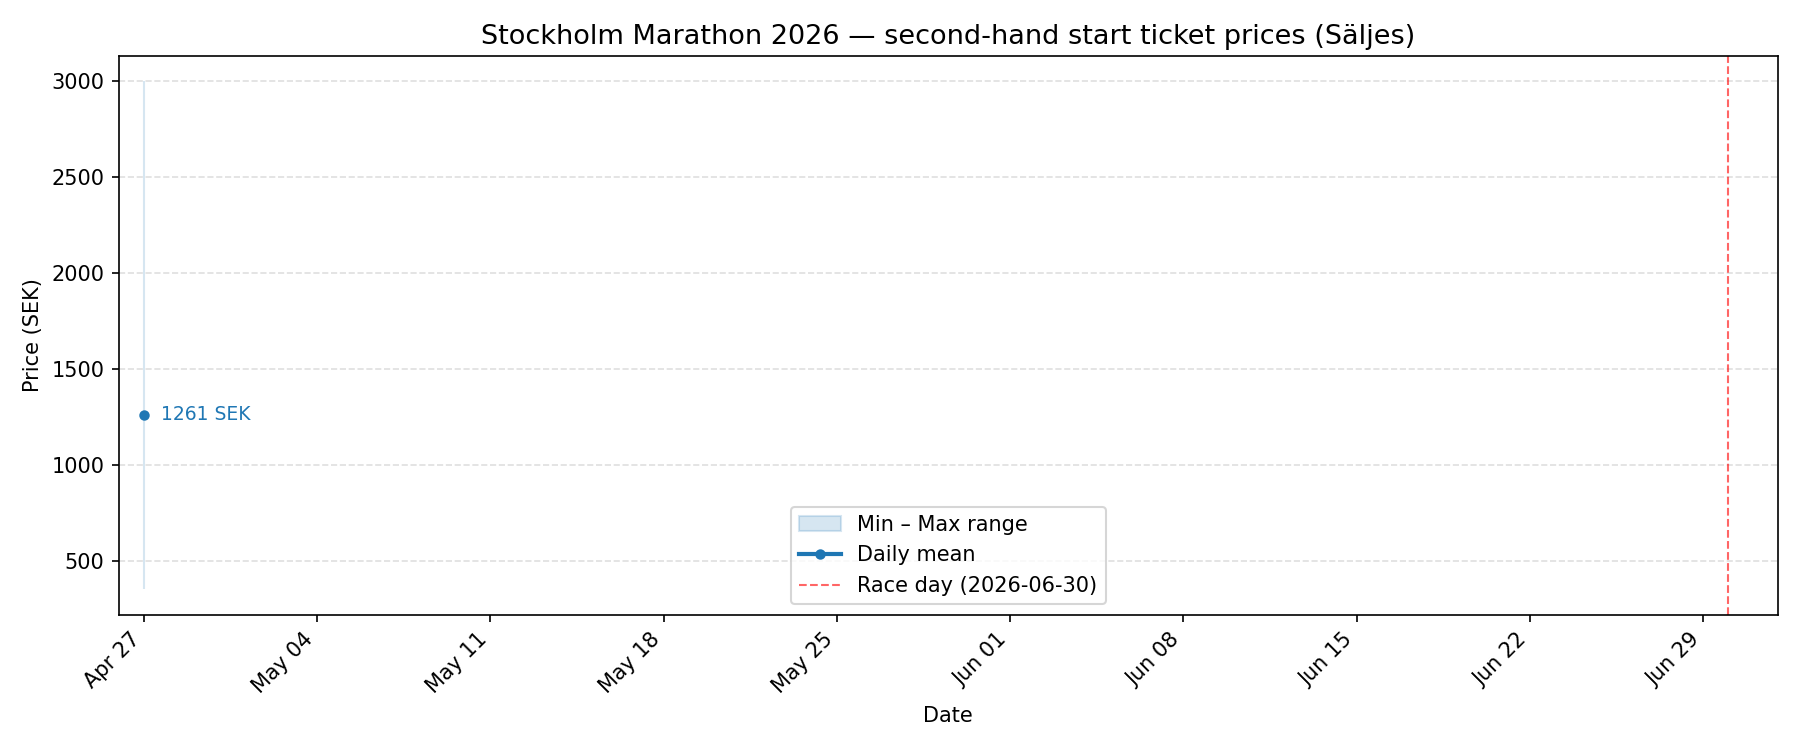
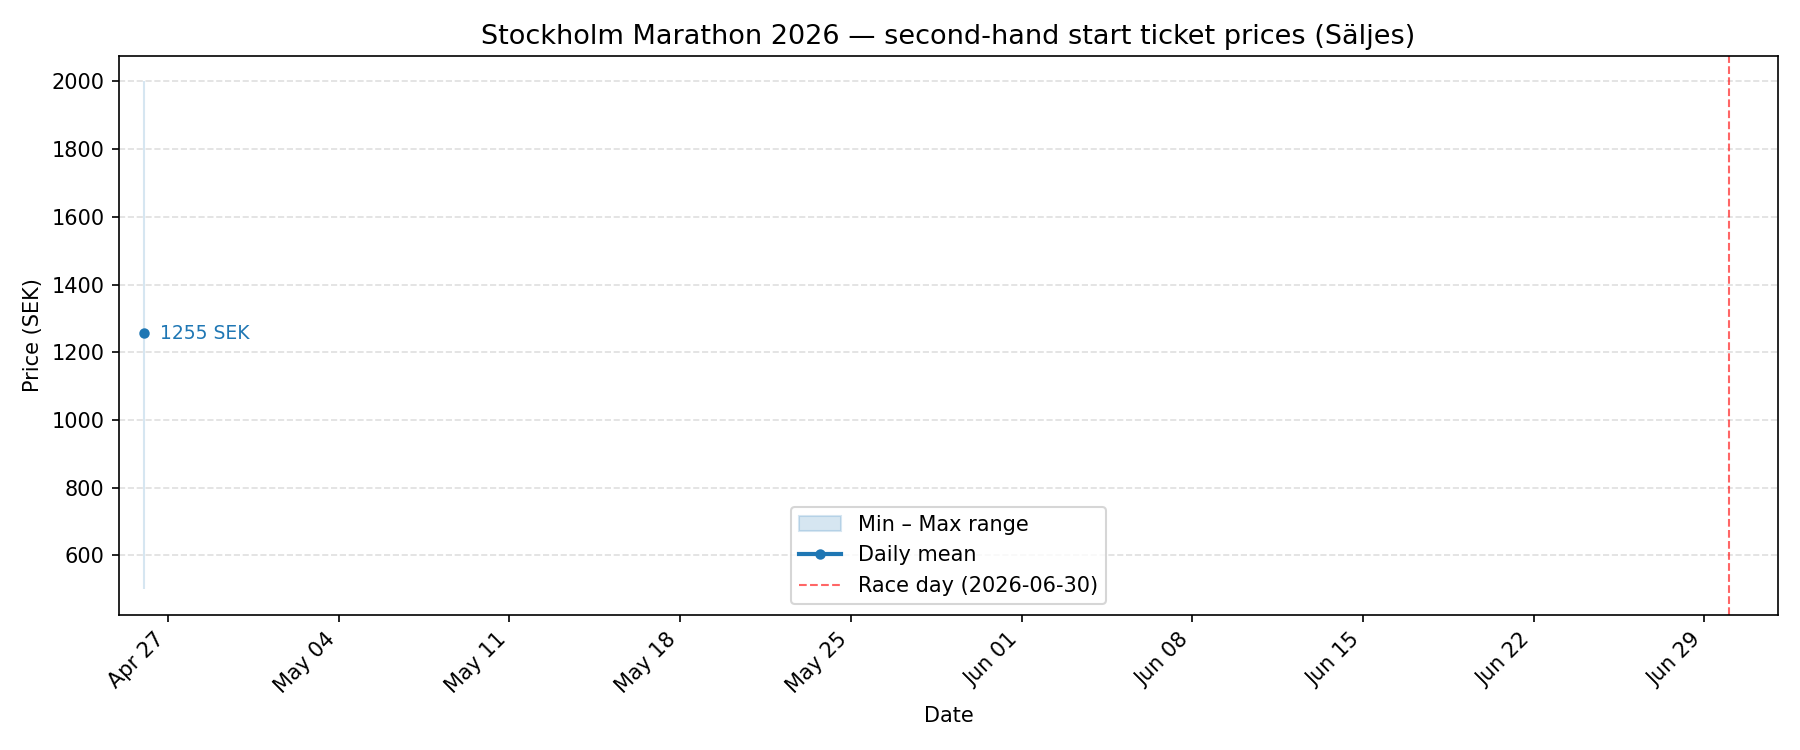
Add outlier filtering and multi-ticket price normalization
filters.py detects multi-ticket listings from the title (e.g. "2 startplatser")
and divides the price per ticket, then drops prices outside +-60% of the daily
median. analyze.py and plot.py both use the shared filter logic.

diff --git a/plot.py b/plot.py
@@ -1,30 +1,34 @@
 import csv
 import statistics
 from collections import defaultdict
-from datetime import date
+from datetime import date, timedelta
 from pathlib import Path
 
 import matplotlib.pyplot as plt
 import matplotlib.dates as mdates
+
+from filters import filter_outliers, normalize
 
 DATA_FILE = Path(__file__).parent / "data" / "prices.csv"
 OUT_FILE = Path(__file__).parent / "data" / "prices.png"
 RACE_DAY = date(2026, 6, 30)
 
 
-def load_by_day() -> dict[date, list[int]]:
-    by_day: dict[date, list[int]] = defaultdict(list)
+def load_by_day() -> dict[date, list[float]]:
+    by_day: dict[date, list[float]] = defaultdict(list)
     with DATA_FILE.open(encoding="utf-8") as f:
         for row in csv.DictReader(f):
             day = date.fromisoformat(row["scraped_at"][:10])
-            by_day[day].append(int(row["price_sek"]))
-    return by_day
+            by_day[day].append(normalize(int(row["price_sek"]), row["title"]))
+    return {day: filter_outliers(prices) for day, prices in by_day.items()}
 
 
 def build_series(by_day):
     days, means, lows, highs = [], [], [], []
     for day in sorted(by_day):
         prices = by_day[day]
+        if not prices:
+            continue
         days.append(day)
         means.append(statistics.mean(prices))
         lows.append(min(prices))
@@ -35,13 +39,9 @@ def build_series(by_day):
 def plot(days, means, lows, highs):
     fig, ax = plt.subplots(figsize=(12, 5))
 
-    # Shaded min-max band
     ax.fill_between(days, lows, highs, alpha=0.18, color="#1f77b4", label="Min – Max range")
-
-    # Mean line
     ax.plot(days, means, color="#1f77b4", linewidth=2, marker="o", markersize=4, label="Daily mean")
 
-    # Annotate latest mean
     if days:
         ax.annotate(
             f"{means[-1]:.0f} SEK",
@@ -53,13 +53,11 @@ def plot(days, means, lows, highs):
             color="#1f77b4",
         )
 
-    # Race day marker
     ax.axvline(RACE_DAY, color="red", linewidth=1, linestyle="--", alpha=0.6, label=f"Race day ({RACE_DAY})")
 
     ax.xaxis.set_major_formatter(mdates.DateFormatter("%b %d"))
     ax.xaxis.set_major_locator(mdates.WeekdayLocator(byweekday=mdates.MO, interval=1))
     if days:
-        from datetime import timedelta
         ax.set_xlim(days[0] - timedelta(days=1), RACE_DAY + timedelta(days=2))
     fig.autofmt_xdate(rotation=45, ha="right")
 
@@ -79,5 +77,4 @@ if __name__ == "__main__":
     if not DATA_FILE.exists():
         print("No data yet. Run scrape.py first.")
     else:
-        by_day = load_by_day()
-        plot(*build_series(by_day))
+        plot(*build_series(load_by_day()))

diff --git a/analyze.py b/analyze.py
@@ -3,33 +3,35 @@ import statistics
 from collections import defaultdict
 from pathlib import Path
 
+from filters import filter_outliers, normalize
+
 DATA_FILE = Path(__file__).parent / "data" / "prices.csv"
 
 
-def load_prices() -> dict[str, list[int]]:
-    by_day: dict[str, list[int]] = defaultdict(list)
+def load_prices() -> dict[str, list[float]]:
+    by_day: dict[str, list[float]] = defaultdict(list)
     with DATA_FILE.open(encoding="utf-8") as f:
         for row in csv.DictReader(f):
-            day = row["scraped_at"][:10]  # YYYY-MM-DD from ISO datetime
-            by_day[day].append(int(row["price_sek"]))
-    return by_day
+            day = row["scraped_at"][:10]
+            by_day[day].append(normalize(int(row["price_sek"]), row["title"]))
+    return {day: filter_outliers(prices) for day, prices in by_day.items()}
 
 
-def print_report(by_day: dict[str, list[int]]) -> None:
+def print_report(by_day: dict[str, list[float]]) -> None:
     header = f"{'Date':<12} {'Count':>5} {'Mean':>7} {'Min':>6} {'Max':>6} {'StdDev':>8}"
     print(header)
     print("-" * len(header))
     for day in sorted(by_day):
         prices = by_day[day]
+        if not prices:
+            continue
         mean = statistics.mean(prices)
-        low = min(prices)
-        high = max(prices)
         std = statistics.stdev(prices) if len(prices) > 1 else 0.0
-        print(f"{day:<12} {len(prices):>5} {mean:>7.0f} {low:>6} {high:>6} {std:>8.0f}")
+        print(f"{day:<12} {len(prices):>5} {mean:>7.0f} {min(prices):>6.0f} {max(prices):>6.0f} {std:>8.0f}")
 
 
 if __name__ == "__main__":
     if not DATA_FILE.exists():
-        print(f"No data yet. Run scrape.py first.")
+        print("No data yet. Run scrape.py first.")
     else:
         print_report(load_prices())

diff --git a/filters.py b/filters.py
@@ -1,0 +1,31 @@
+import re
+import statistics
+
+# Matches patterns like: "2 startplatser", "2st platser", "2x startplats",
+# "säljer 2 platser", "2 biljetter", "2 tickets"
+_MULTI_RE = re.compile(
+    r"\b([2-9])\s*(?:st\.?|stycken|x)?\s*"
+    r"(?:startplatser?|platser?|biljetter?|tickets?)\b"
+    r"|"
+    r"\b([2-9])\s*x\s*startplats",
+    re.IGNORECASE,
+)
+
+
+def ticket_count(title: str) -> int:
+    m = _MULTI_RE.search(title)
+    if m:
+        return int(m.group(1) or m.group(2))
+    return 1
+
+
+def normalize(price: int, title: str) -> float:
+    return price / ticket_count(title)
+
+
+def filter_outliers(prices: list[float], threshold: float = 0.6) -> list[float]:
+    if not prices:
+        return prices
+    med = statistics.median(prices)
+    lo, hi = med * (1 - threshold), med * (1 + threshold)
+    return [p for p in prices if lo <= p <= hi]
